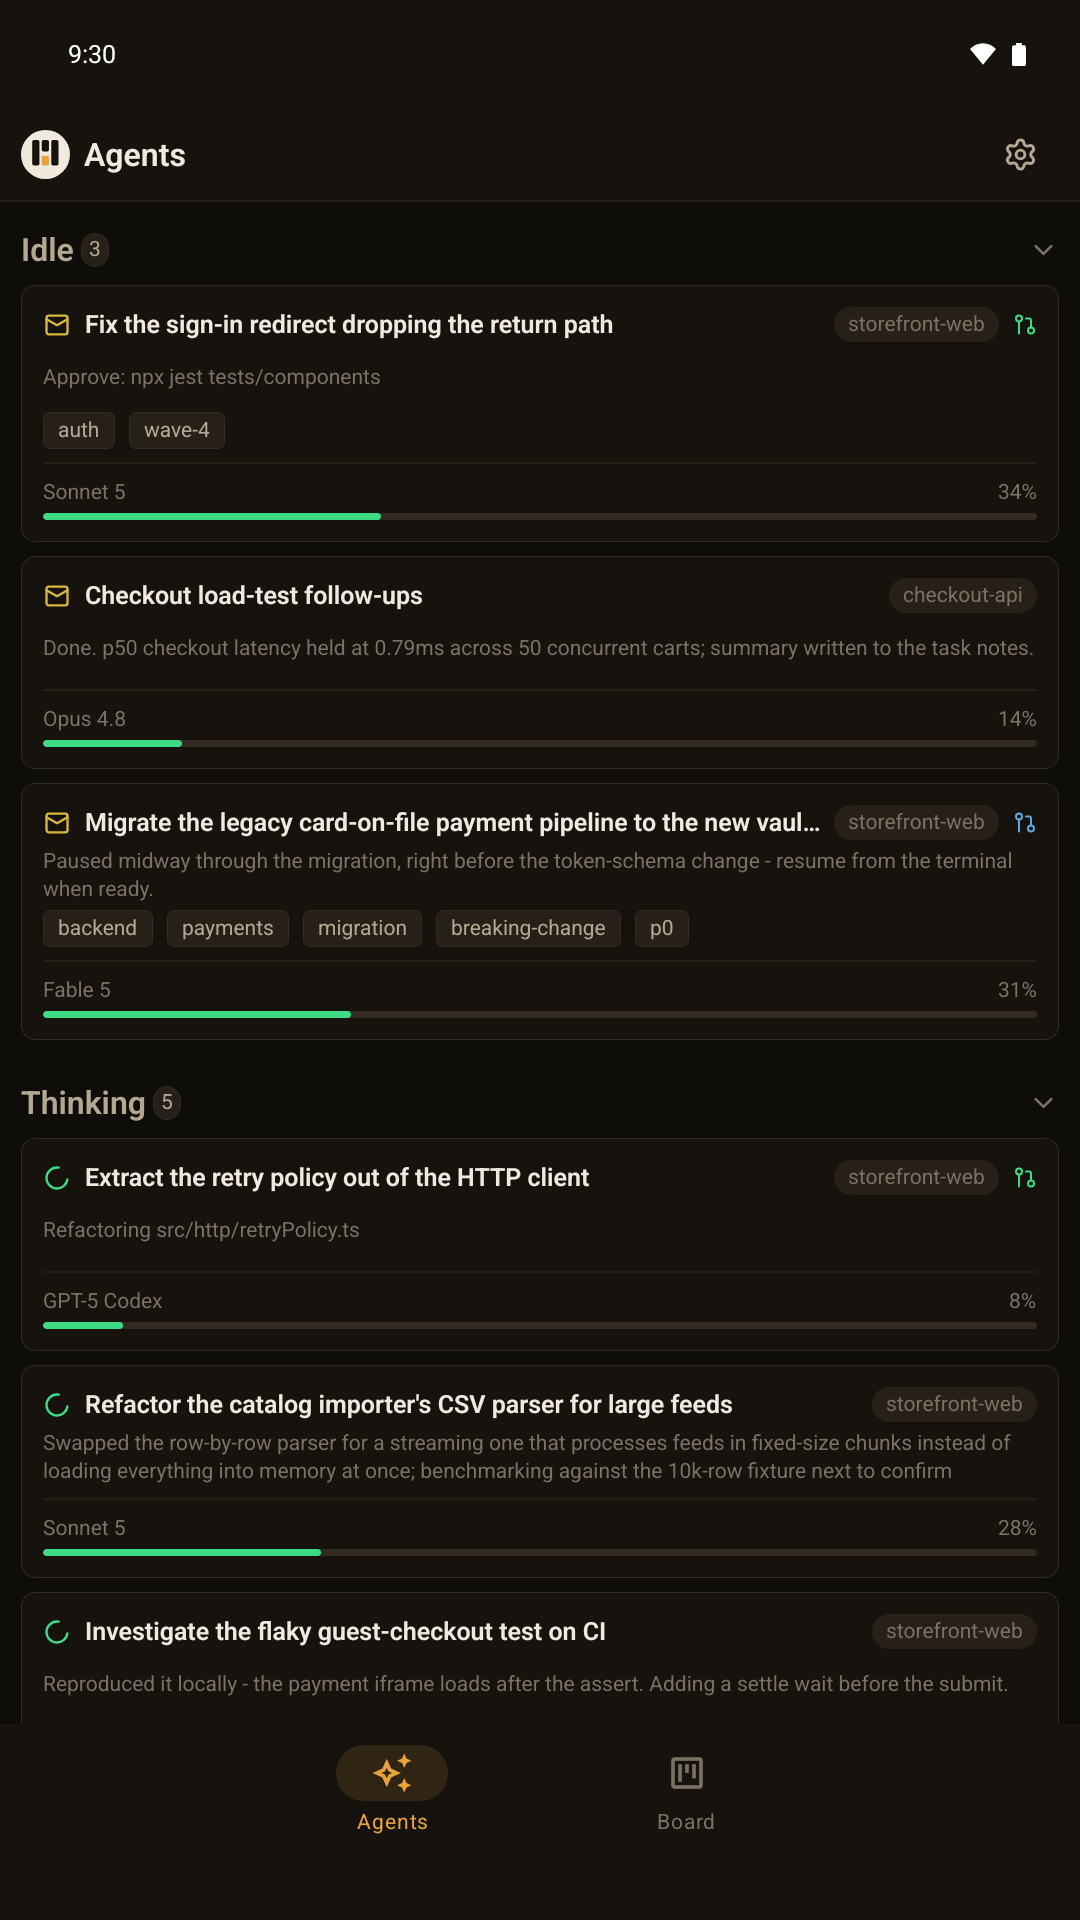
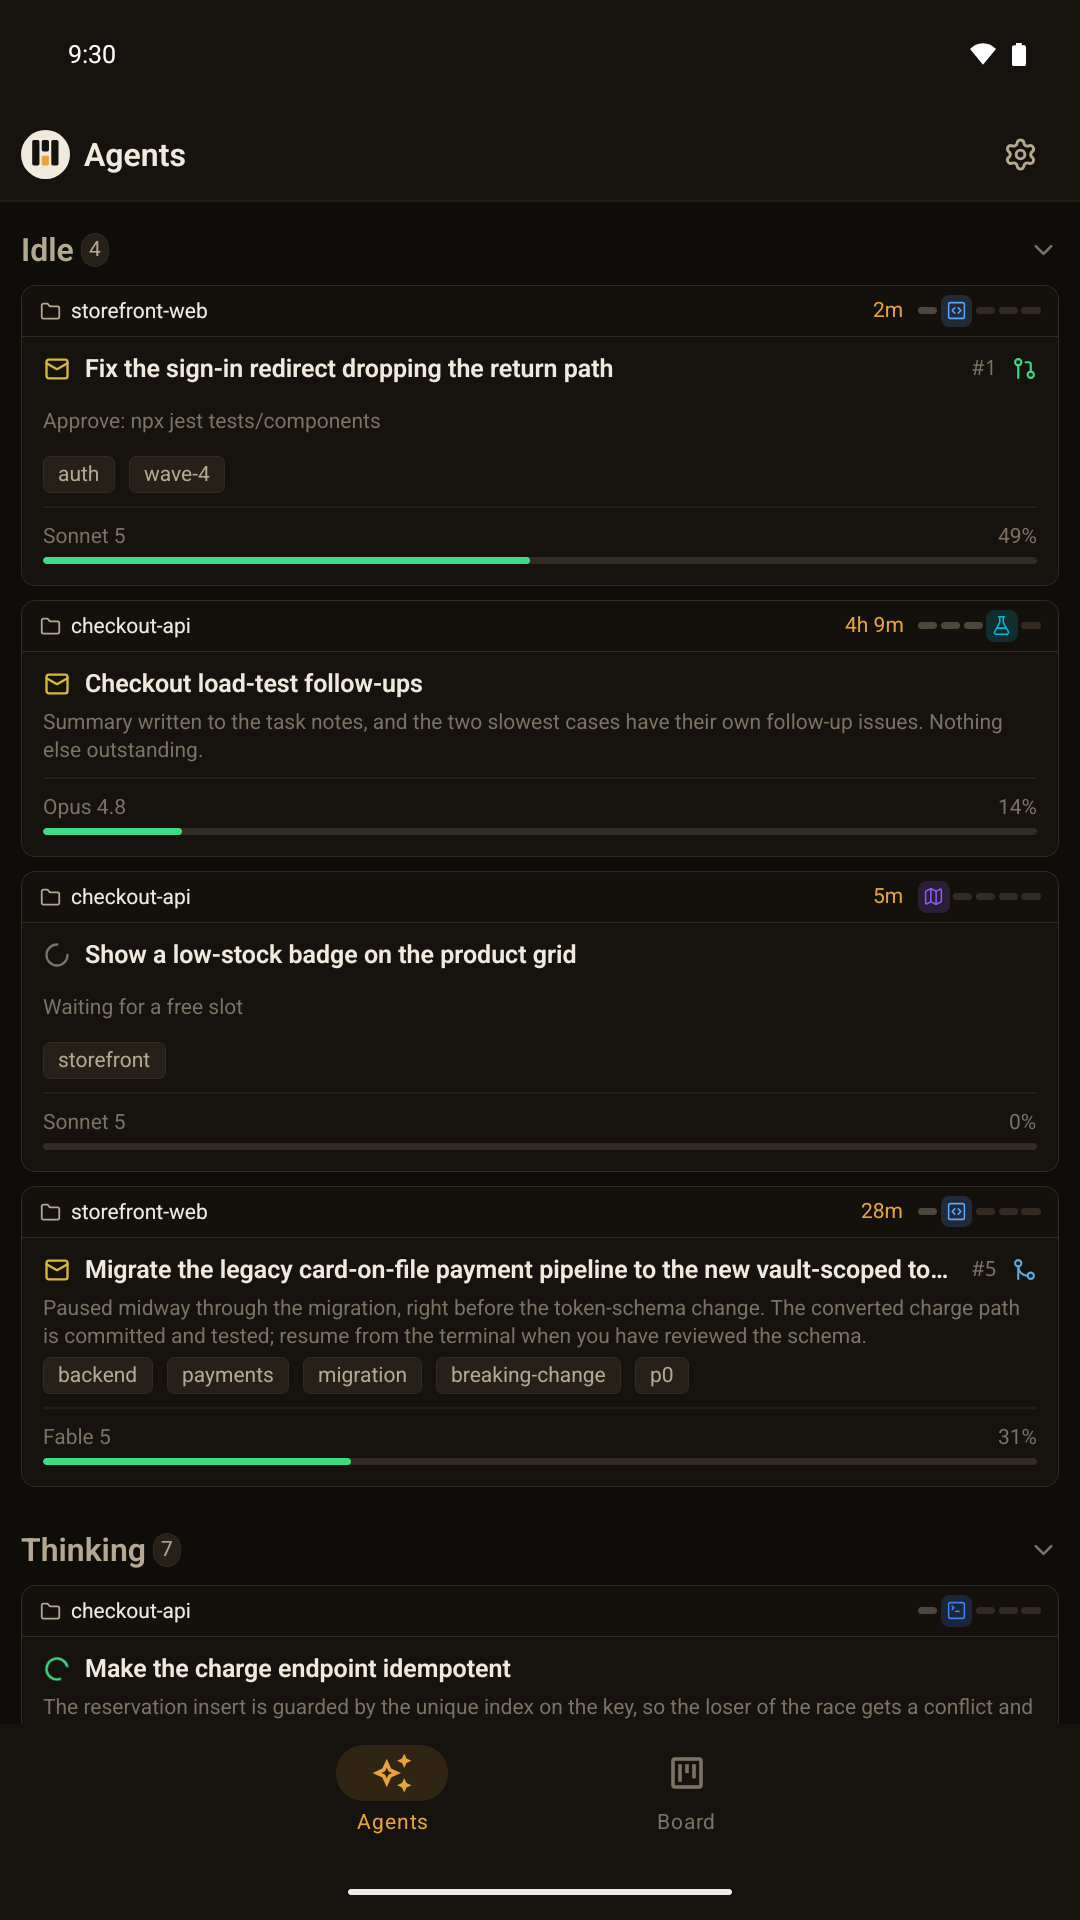
chore(store): refresh all four listing shelves for the Agents column strip
Re-captures the Play phone, 7-inch and 10-inch shelves and the App Store
6.9-inch shelf at 0cbaddb, so every listing frame shows the Agents card's
new top band (project, wait time, step track) and the task number and PR
icon in the title row. iOS came from build-ios.yml run 37403393049.

The phone file-diff frame is kept from the previous capture: the new one
differed only by a 12 px strip, Android's scrollbar flash caught before it
faded, and this change does not touch that screen.

Also records two capture findings: that scrollbar flash in the skill's
frame checklist, and in storeScreenshots.mjs the double-wifi pattern seen
today (both occurrences on the first demo-mode entry after a cold boot; a
re-run on the same boot was clean).

Changed region(s): [[0.0306, 0.1562, 0.9778, 0.9062], [0.7944, 0.1562, 0.9778, 0.1875]]

diff --git a/.claude/skills/store-screenshots/SKILL.md b/.claude/skills/store-screenshots/SKILL.md
@@ -151,6 +151,8 @@ right PICTURE, and this is where every real defect has been found:
 - an un-navigated feed shot that a filename collision let through
 - a Maestro *failure* frame collected as a listing image
 - two wifi icons, from a status bar left in demo mode by an earlier run
+- a horizontal scrollbar along the bottom of the phone's file-diff frame, caught
+  before Android faded it out (the diff is wider than a phone)
 - status badges floating 12pt above the row they label
 - **a completely BLANK terminal**, on one run out of two
 
